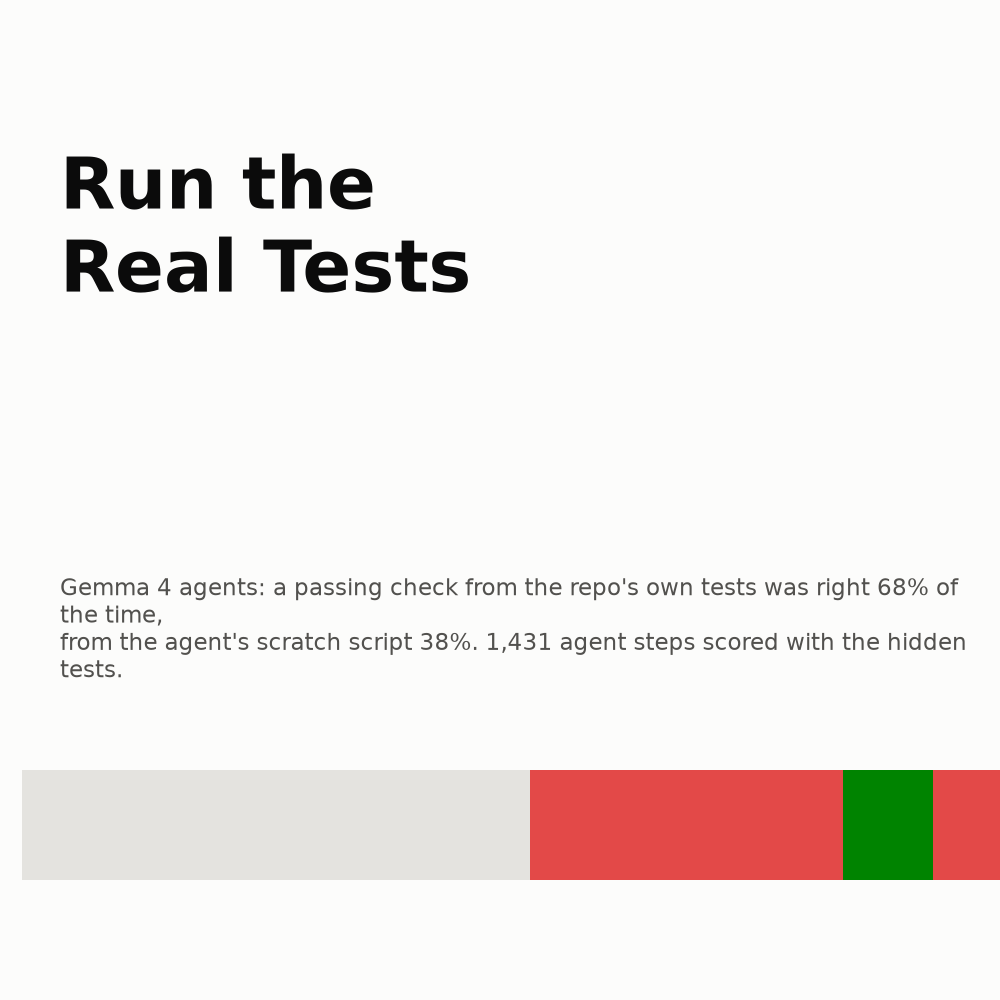
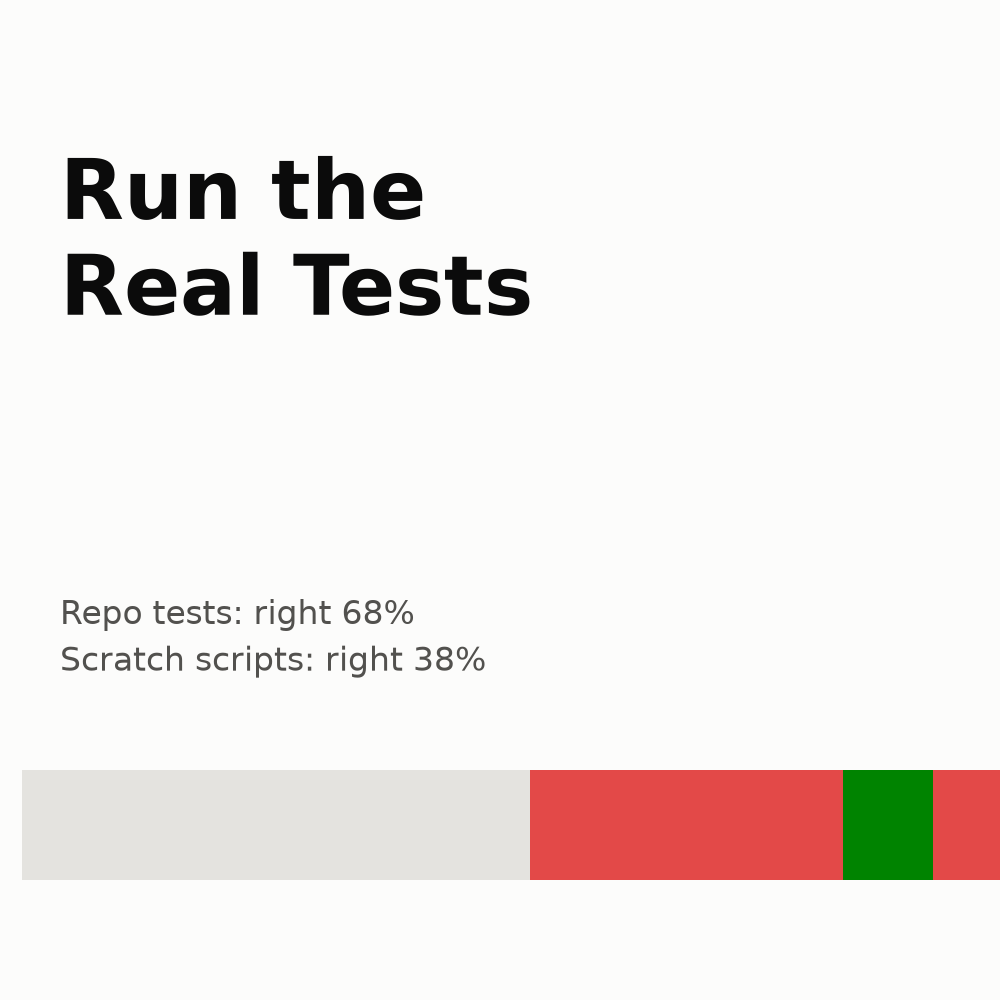
Cleaner cover and thumbnail text

Changed region(s): [[0.062, 0.558, 0.961, 0.682], [0.062, 0.155, 0.527, 0.341]]

diff --git a/analysis/cover.py b/analysis/cover.py
@@ -32,7 +32,7 @@ def strip(ax, y, h):
         ax.add_patch(plt.Rectangle((x0, y), x1 - x0, h, color=PASS if ok else (FAIL if ok is False else GRID), lw=0))
 
 
-def make(w, h, name, title_size, stat_size):
+def make(w, h, name, title_size, stat_size, stat):
     fig = plt.figure(figsize=(w, h), dpi=200, facecolor=SURF)
     ax = fig.add_axes([0, 0, 1, 1])
     ax.set_xlim(0, end)
@@ -41,12 +41,11 @@ def make(w, h, name, title_size, stat_size):
     strip(ax, 1.2, 1.1)
     ax.text(end * 0.06, 8.6, 'Run the\nReal Tests', fontsize=title_size, weight='bold', color=INK,
             va='top', linespacing=1.15)
-    ax.text(end * 0.06, 3.15, 'Gemma 4 agents: a passing check from the repo\'s own tests was right 68% of the time,\nfrom the agent\'s scratch script 38%. 1,431 agent steps scored with the hidden tests.',
-            fontsize=stat_size, color=INK2, va='bottom', wrap=True)
+    ax.text(end * 0.06, 3.15, stat, fontsize=stat_size, color=INK2, va='bottom', linespacing=1.4)
     fig.savefig(out / name, dpi=200, facecolor=SURF)
     plt.close(fig)
 
 
-make(8, 4, 'cover.png', 30, 10.5)
-make(5, 5, 'thumbnail.png', 26, 8.2)
+make(8, 4, 'cover.png', 30, 10.5, "A passing check from the repo's own tests was right 68% of the time;\nfrom the agent's scratch script, 38%. 1,431 Gemma 4 agent steps scored.")
+make(5, 5, 'thumbnail.png', 30, 12, 'Repo tests: right 68%\nScratch scripts: right 38%')
 print('wrote cover.png, thumbnail.png')
